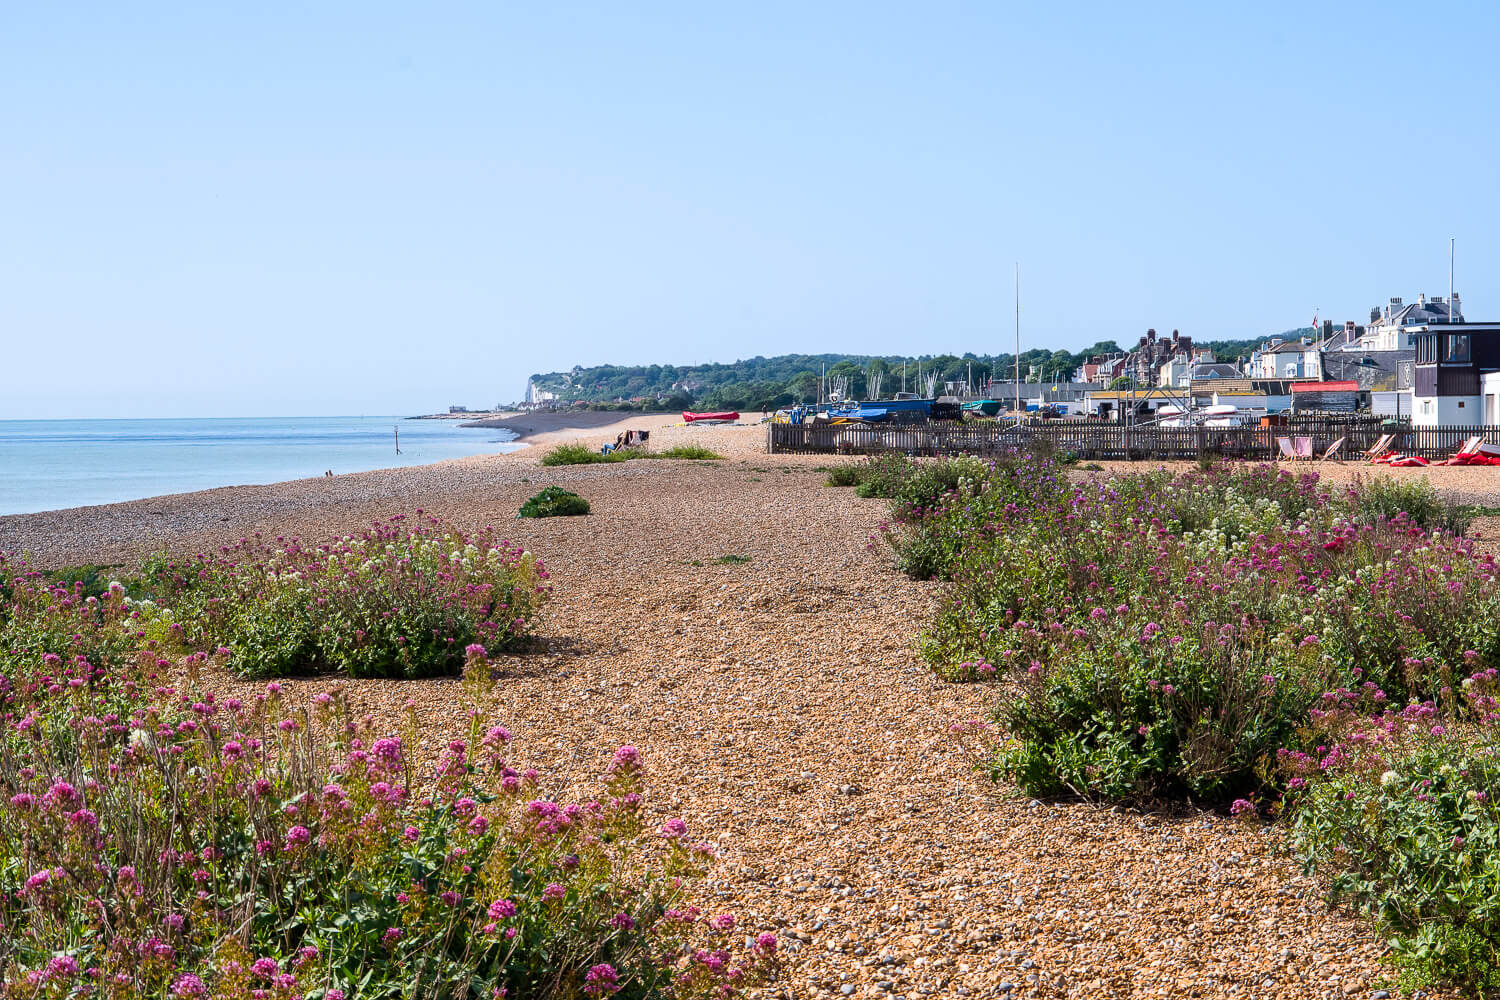
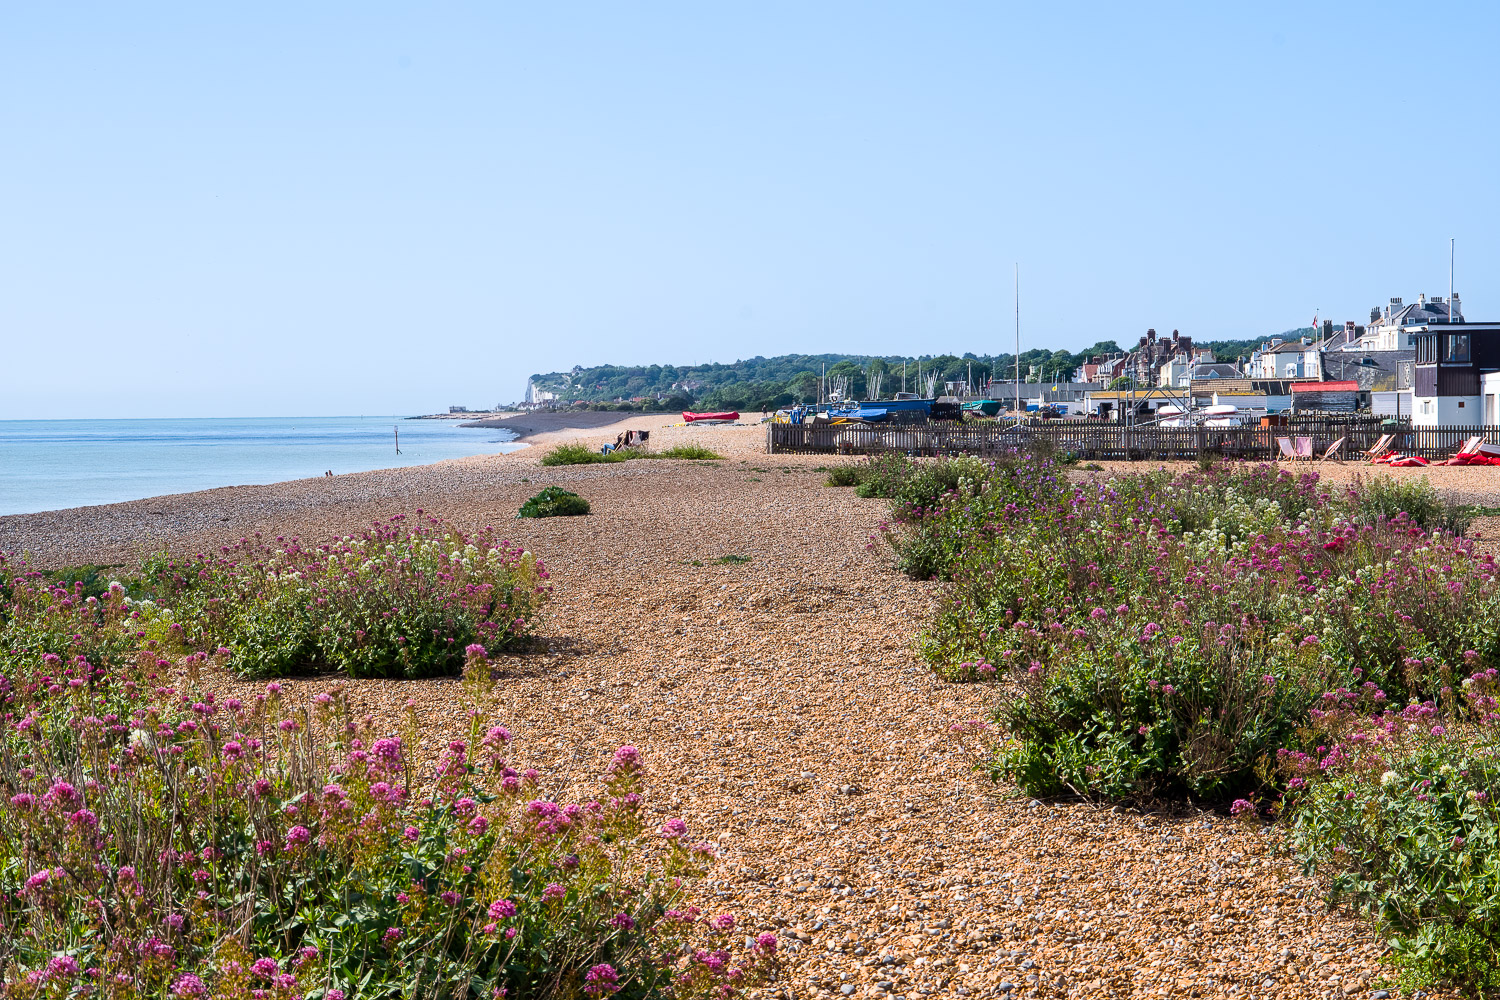
Update Blog “rose-castles”

Changed region(s): [[0.0, 0.341, 1.0, 1.0], [0.92, 0.31, 0.9507, 0.341], [0.3987, 0.434, 0.4293, 0.465]]

diff --git a/content/posts/rose-castles.md b/content/posts/rose-castles.md
@@ -4,7 +4,7 @@ description: Deal, Walmer and Kingsdown a triple helping of loveliness, one
   seamlessly flows into the other along the delightful seafront.
 collection: "111"
 aspect: landscape
-image: /img/deal-beach-paddle-boarder.jpg
+image: /img/walmer-flowers-beach-.jpg
 metaImage: /img/derp-cat.jpeg
 alt: "111"
 poem: |-
